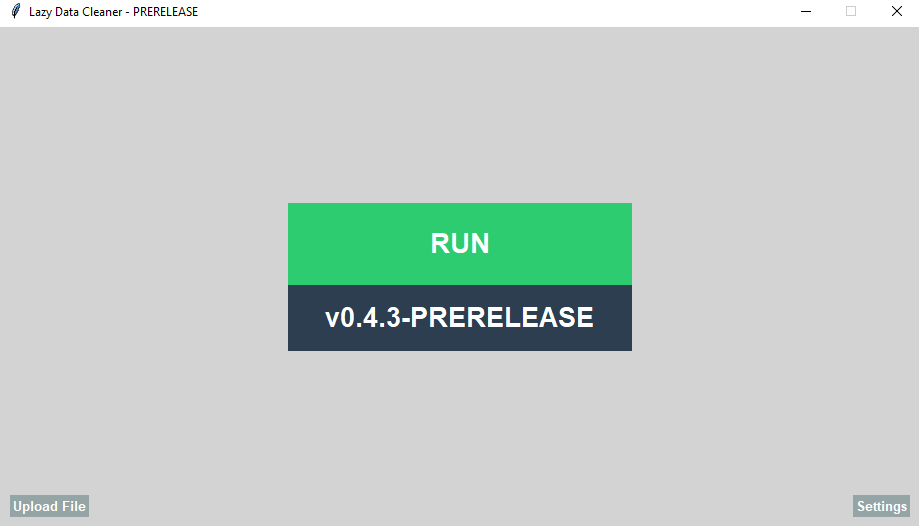
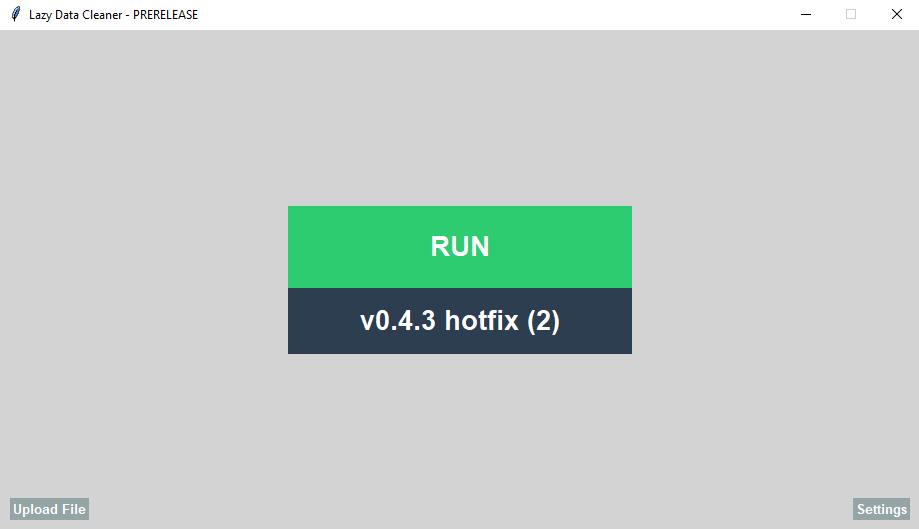
Latest - Unstable
Still work in progress but have a bit of error.

diff --git a/core/processing.py b/core/processing.py
@@ -6,7 +6,7 @@ from datetime import datetime
 from word2number import w2n
 import numpy as np
 from .read_and_write import load_file, save_file
-import contextlib
+import contextlib, os
 
 # Reset Colorama
 init(autoreset=True)
@@ -15,25 +15,42 @@ init(autoreset=True)
 def get_time():
     return datetime.now().strftime("%H:%M:%S")
 
+# Identify numerical like columns
+def is_numeric_like(series, sample_size=100):
+    # Get a sample of the series
+    series = series.dropna().astype(str).head(sample_size)
+
+    # If more than 50% of values are digits or can be converted to a number
+    count_numeric = sum([v.replace('.', '', 1).isdigit() or v.replace('-', '', 1).isdigit() for v in series])
+    return count_numeric / max(len(series), 1) > 0.5
+
 # Convert word to number
-def safe_w2n(value):
-    return value
+def safe_w2n(series, cap=1000):
 
-"""
-Disabled, waiting for word2number dev update it
+    # Get the unquie values
+    unique_values = series.dropna().unique()
 
-    # Check if value is not a string or is nan
-    if not isinstance(value, str) or pd.isna(value):
-        return value
+    # Check if the number of unique values >= cap
+    if len(unique_values) >= cap:
+        print(F.YELLOW + f"[{get_time()}] Warning: Too many unique values, {len(unique_values)}.\nSkipping word to number conversion.")
+        return series
     
-    # Try to convert it
-    try:
-        return w2n.word_to_num(value)
-    
-    # If convertion failed return original value
-    except:
-        return value
-"""
+    cache = {}
+
+    for value in unique_values:
+ 
+        try:
+            # Convert the value to a number
+                with open(os.devnull, 'w') as f, \
+                     contextlib.redirect_stdout(f), \
+                     contextlib.redirect_stderr(f):
+
+                    cache[value] = w2n.word_to_num(value)
+        except:
+            # If conversion fails, keep the original value
+            cache[value] = value
+
+    return series.map(lambda x: cache.get(x, x))
 
 # Clean the nan
 def clean(x):
@@ -50,8 +67,8 @@ def clean(x):
     if s.lower() in ['nan', 'none', '']:
         return np.nan
     
-    # Return the lower text
-    return s.lower()
+    # Return
+    return s
 
 # Format String
 def format_string_values(x):
@@ -67,86 +84,30 @@ def format_string_values(x):
 def merging(df):
 
     # Column name directory
-    new_column_names = {}
+    normalized = {}  
+    to_merge = []  
 
     # For each column name
     for column in df.columns:
-        # Format the column Name
-        cleaned_name = clean(column)
-        cleaned_name = safe_w2n(cleaned_name)
-        cleaned_name = format_string_values(cleaned_name)
-
-        # Save the new column name
-        new_column_names[column] = str(cleaned_name)
-
-    # Rename columns
-    df = df.rename(columns=new_column_names)
-
-    # Lists
-    columns = df.columns.tolist()
-    normalized = {}
-    to_remove = []
-
-    # For each column in columns
-    for column in columns:
-        # Correct Format
-        normal = column.lower().strip()
-
-        # Check if the name is already there
+        normal = column.lower().replace(" ", "_").replace("-", "_")
         if normal in normalized:
-            # Filter the normalized data to keep only the normal rows
-            main_column = normalized[normal]
-
-            # Inform user that column will be merged
-            print(F.RED + f"[{get_time()}] Duplicate Detected: '{column}' looks like '{main_column}'")
-            
-            # User input loop
-            while True:
-                # User Input
-                user_input = input(F.CYAN + f"[{get_time()}] Would you like to merge them? (Y/N): ").lower()
-
-                # If user allow merging
-                if user_input == "y":
-                    # Check both right and left columns
-                    left = df[main_column]
-                    right = df[column]
-
-                    # First replace missing data in the right with left columns
-                    if isinstance(left, pd.DataFrame):
-                        left = left.iloc[:, 0]
-
-                    # Then replace missing data in the left with right columns 
-                    if isinstance(right, pd.DataFrame):
-                        right = right.iloc[:, 0]
-                    
-                    # Combine them and remove the left column
-                    df[main_column] = left.combine_first(right)
-                    to_remove.append(column)
-
-                    # Inform user that process finished and end cycle
-                    print(F.YELLOW + f"[{get_time()}] Merged '{column}' into '{main_column}'")
-                    break
-
-                # If user doesn't allow merging
-                elif user_input == "n":
-                    # Rename column
-                    new_name = f"{column}_2"
-                    df = df.rename(columns={column: new_name})
-
-                    # Inform user that process finished and end cycle
-                    print(F.YELLOW + f"[{get_time()}] Kept both. Renamed '{column}' to '{new_name}'")
-                    break
-
-                # If invaild input
-                else:
-                    print(F.RED + f"[{get_time()}] Invalid Input Try Again")
-        
-        # If the name not already there add it
+            to_merge.append((normalized[normal], column))
         else:
             normalized[normal] = column
 
-    # Delete the redundant columns
-    df = df.drop(columns=to_remove)
+    for target, source in to_merge:
+        left = df[target]
+        right = df[source]
+
+        if isinstance(left, pd.DataFrame):
+            left = left.iloc[:, 0]
+        if isinstance(right, pd.DataFrame):
+            right = right.iloc[:, 0]
+
+        df[target] = left.where(left.notna(), right)
+        df = df.drop(columns=[source])
+        print(F.YELLOW + f"[{get_time()}] Merged '{source}' into '{target}'")
+
     return df
 
 # Function - Copying Files
@@ -156,7 +117,7 @@ def process_files(force_change_csv=False):
     print(F.GREEN + f"[{get_time()}] Processing started...")
 
     # Getting (Paths)
-    base_directory = Path(__file__).resolve().parent.parent     ## Parent Folder Directory
+    base_directory = Path(__file__).resolve().parents[1]         ## Parent Folder Directory
     upload_directory = base_directory / "Upload"                ## Upload Folder
     data_directory = base_directory / "Data"                    ## Data Folder
     
@@ -194,9 +155,29 @@ def process_files(force_change_csv=False):
             
             # Read the CSV file
             df = load_file(file)
-            df = df.map(clean)
-            df = df.map(safe_w2n)
-            df = df.map(format_string_values)
+            
+            # Clean the data
+            for column in df.columns:
+                if df[column].dtype == object:
+                    df[column] = df[column].apply(clean)
+            
+            # Convert numeric columns
+            for column in df.columns:
+                if df[column].dtype != object:
+                    df[column] = pd.to_numeric(df[column], errors='coerce')
+
+            # Convert word to numbers
+            for column in df.columns:
+                if df[column].dtype == object and is_numeric_like(df[column]):
+                    df[column] = safe_w2n(df[column])
+
+            # Format string values
+            for column in df.columns:
+                if df[column].dtype == object and not is_numeric_like(df[column]):
+                    df[column] = df[column].apply(format_string_values)
+                    df[column] = df[column].str.replace(r'[\s\-]+', '_', regex=True)
+            
+            # Merging columns
             df = merging(df)
 
             # Rename the file while keeping orginial name and save it to (Data) folder

diff --git a/core/presets.py b/core/presets.py
@@ -2,24 +2,24 @@
 from .functions import fill_median, fill_mode, outlier, duplicate, standardization
 
 # Default preset
-def default(data_csv):
-    duplicate(data_csv)
+def default(data):
+    duplicate(data)
 
 # AI preset
-def AI(data_csv):
-    fill_median(True, 30, data_csv)
-    fill_mode(True, 30, data_csv)
-    outlier(data_csv)
-    duplicate(data_csv)
-    standardization(data_csv)
+def AI(data):
+    fill_median(True, 30, data)
+    fill_mode(True, 30, data)
+    outlier(data)
+    duplicate(data)
+    standardization(data)
 
 # Bussiness preset
-def bussinses(data_csv):
-    fill_mode(False, 5, data_csv)
-    duplicate(data_csv)
+def bussinses(data):
+    fill_mode(False, 5, data)
+    duplicate(data)
 
 # Streaming preset
-def streaming(data_csv):
-    fill_mode(True, 50, data_csv)
-    outlier(data_csv)
-    duplicate(data_csv)
+def streaming(data):
+    fill_mode(True, 50, data)
+    outlier(data)
+    duplicate(data)

diff --git a/core/functions.py b/core/functions.py
@@ -91,7 +91,19 @@ def duplicate(data):
                 df.drop(index=to_remove, inplace=True)
             
             df.reset_index(inplace=True)
+        
+            # Fill missing values in numerical columns with mean
+            numerical_columns = df.select_dtypes(include=[np.number]).columns
+            if len(numerical_columns) > 0:
+                df[numerical_columns] = df[numerical_columns].fillna(df[numerical_columns].mean())
             
+            # Fill missing values in object columns with mode
+            object_columns = df.select_dtypes(include=['object']).columns
+            for col in object_columns:
+                mode_val = df[col].mode()
+                if not mode_val.empty:
+                    df[col] = df[col].fillna(mode_val[0])
+
         save_file(df, file)
         print(F.GREEN + f"[{get_time()}] Finished Removing Duplicates")
 

diff --git a/UI/upload_file.py b/UI/upload_file.py
@@ -22,15 +22,16 @@ def upload_file():
         return
 
     # Get absolute path of current script directory
-    base_directory = Path(__file__).resolve().parent.parent
+    base_directory = Path(__file__).resolve().parent[1]
 
     # Create Upload folder inside project
     upload_folder = base_directory / "Upload"
-    os.makedirs(upload_folder, exist_ok=True)
+    upload_folder.mkdir(exist_ok=True)
+    file_path = Path(file_path).resolve(strict=True)
 
     # Copy file
     try:
-        destination = os.path.join(upload_folder, os.path.basename(file_path))
+        destination = upload_folder / file_path.name
         shutil.copy(file_path, destination)
         messagebox.showinfo("Success", f"File uploaded to:\n{destination}")
     

diff --git a/core/read_and_write.py b/core/read_and_write.py
@@ -32,7 +32,7 @@ def load_file(path, **kwargs):
 # Save Files
 def save_file(df, filename, force_csv=False, **kwargs):
     # Get the orginial path
-    data_directory = Path(__file__).resolve().parent.parent / "Data"
+    data_directory = Path(__file__).resolve().parents[1] / "Data"
     data_directory.mkdir(parents=True, exist_ok=True)
     
     # If user want to force to be csv

diff --git a/UI/display.py b/UI/display.py
@@ -78,7 +78,7 @@ class LazyDataCleaner():
         # Label - Version
         self.version_label = tk.Label(
             self.mainframe,
-            text="v0.4.3-PRERELEASE",
+            text="v0.4.3 hotfix (2)",
             font=("Arial", 20, "bold"),
             bg="#2c3e50",
             fg="white",
